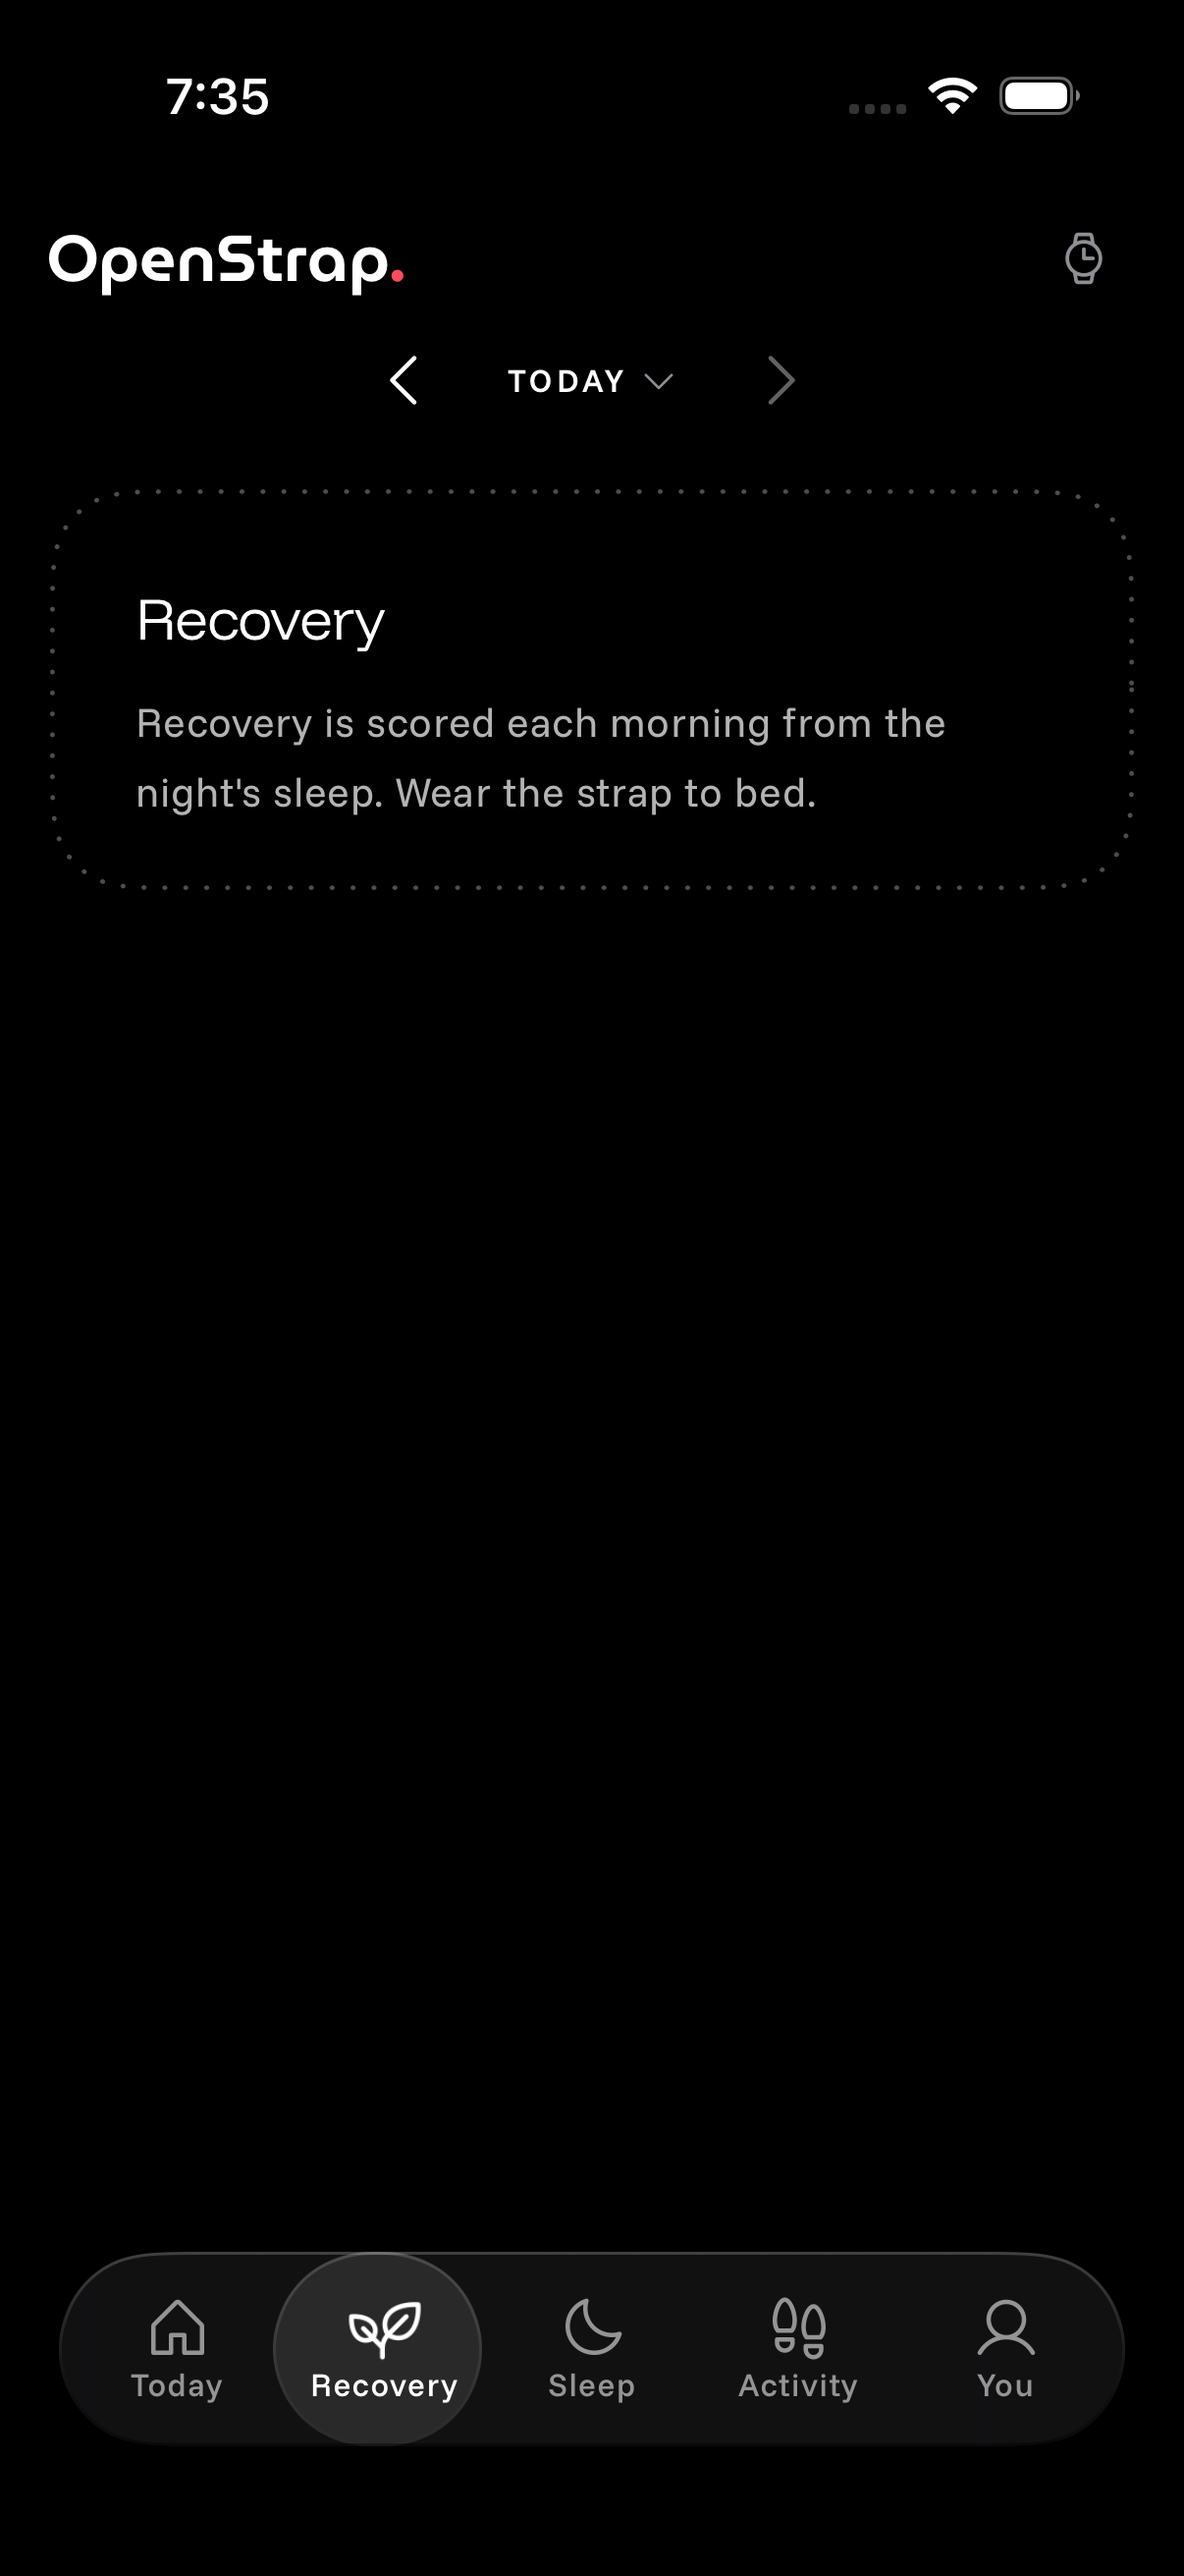
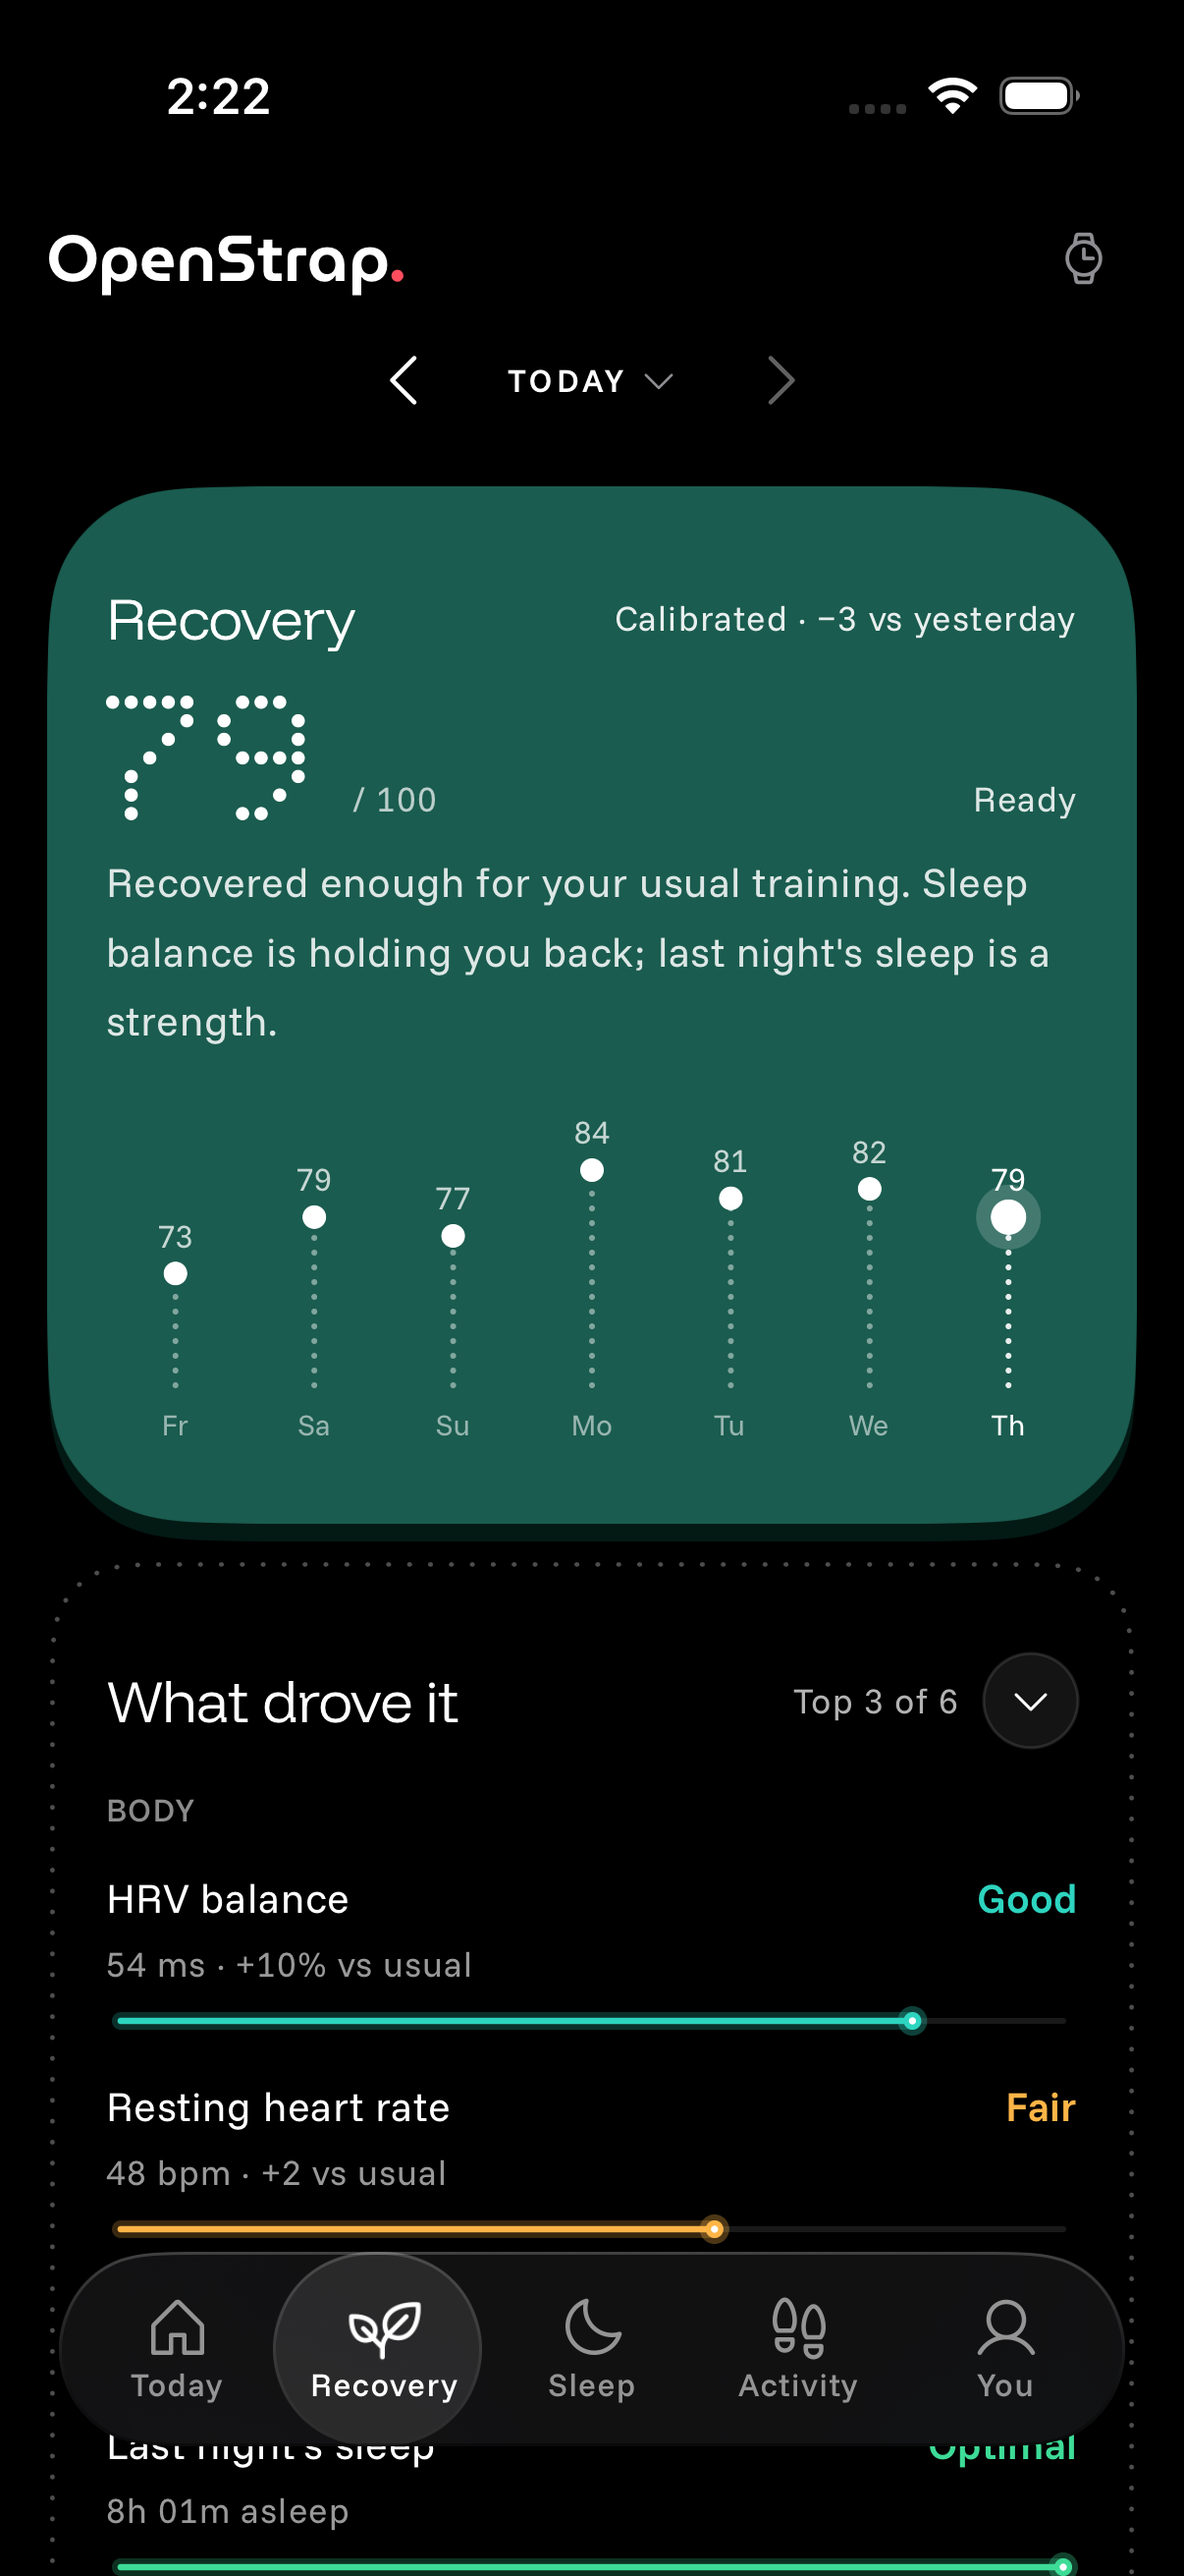
iOS U6: Recovery's screenshots, and what the six CI runs cost
Ten U6 screenshots from run 39709841241 (e63ee39, ALL GREEN): the tab top to bottom,
How it works opened, the contributors unfolded, and the learning state 26 days back.
U4-recovery-1.png comes with them because card U4's walk now photographs this screen.

UPSTREAM's U6 entry records the six iOS runs in order, the three ways polling XCUITest for
a state that may not be there failed, card F1's GattException flake in the Kotlin step, the
cancellations from three cards rerunning on one branch, and the two local measurements
(the sample seed's time-of-day dependence, and TZ=Asia/Calcutta not being the zone the JVM
reads).

diff --git a/docs/ios/UPSTREAM.md b/docs/ios/UPSTREAM.md
@@ -914,19 +914,22 @@ What changed in the move, and why:
   over the contributors themselves, then re-filters in the original order, so the rows keep
   Compose's order inside each group rather than the weight order it selected them by.
 
-Tests: `shared/src/jvmTest/kotlin/org/openstrap/shared/screens/RecoveryGlowTest.kt`, 40 tests (the
-header note's five forms, the three no-score sentences, the sleep contributor's note, the strap's
-estimate and its parts, the strap's fallbacks, the hero's headline and body, the trend's two-letter
-weekdays and its empty case, Charge's at-waking note and its four hint/fact forms, `signed`'s zero,
-the 96 quarter-hour buckets and their clock readout, the four flow rows' signs and fractions, the
-highest/lowest note, the contributors' fold and unfold, Compose's group order with its rules, the
-five caveat notes, the six tiles' order/units/accents, faster/slower vs higher/lower, the skin
-temperature deviation, a missing reading, the seven-day week with gaps, the normal note, the alert's
-and the watch's wording, How it works' comparison and its two paragraphs, `forDay`, the empty
-histories and the 30-day window), and `TodayQueriesTest.kt` gained one (a real database: the six
-signals' month, the four the seed writes every day and the two it never writes, the window's last
-day, and a malformed date answering six empty lists). `:shared:jvmTest` 314 -> 356 tests, 0 failures,
-1 opt-in skip.
+Tests: `shared/src/jvmTest/kotlin/org/openstrap/shared/screens/RecoveryGlowTest.kt`, 41 tests (the
+header note's five forms, the three no-score sentences and which of them is the learning state, the
+sleep contributor's note, the strap's estimate and its parts, the strap's fallbacks, the hero's
+headline and body, the trend's two-letter weekdays and its empty case, Charge's at-waking note and
+its four hint/fact forms, `signed`'s zero, the 96 quarter-hour buckets and their clock readout, the
+four flow rows' signs and fractions, the highest/lowest note, the contributors' fold and unfold,
+Compose's group order with its rules, the five caveat notes, the six tiles' order/units/accents,
+faster/slower vs higher/lower, the skin temperature deviation, a missing reading, the seven-day week
+with gaps, the normal note, the alert's and the watch's wording, How it works' comparison and its two
+paragraphs, `forDay`, the empty histories and the 30-day window), `TodayQueriesTest.kt` gained one (a
+real database: the six signals' month, the four the seed writes every day and the two it never
+writes, the window's last day, and a malformed date answering six empty lists) and
+`RecoveryQueriesTest.kt` is new, one test over the demo month: the learning state is days 23 to 29
+back, 26 previous-day taps land inside it, and yesterday is a scored day. `:shared:jvmTest`
+314 -> 358 tests, 0 failures, 1 opt-in skip (measured with the machine's zone in daylight: see the
+last section).
 
 ### Not copied
 
@@ -949,4 +952,50 @@ day, and a malformed date answering six empty lists). `:shared:jvmTest` 314 -> 3
 
 ### What the CI runs found
 
-(see the summary of card t_3a1afc6f for the run ids and what each cost)
+Six iOS runs, in order. The Kotlin was green locally throughout; every failure below was Swift, the
+UI test's own queries, or another card's recorded flake.
+
+- 39695085373: `RecoveryScreen.swift:228: cannot find type 'RecoveryReadiness' in scope`. The Swift
+  name of `Recovery.Readiness`, nested in a Kotlin `object`, is not what the nested-class rule
+  suggests, and no iOS file had needed to spell it before (Today passes it straight into `TodayGlow`).
+  The contributors panel now takes a `(Bool) -> ContributorsModel` builder, so the type is only ever
+  passed through, as on Today.
+- 39696188876: `testRecovery` drew the whole tab — the walk, How it works opened, the contributors
+  unfolded — then failed at `recovery.body`.firstMatch.exists` with "Failed to get matching snapshot:
+  No matches found". XCTest *raises* on a query that matches nothing in this Xcode; it does not answer
+  false, and the scored first day has no such text.
+- 39699291782: the same step again, with the matches read as a list
+  (`matching(identifier:).allElementsBoundByIndex`). Same raise, from the query itself rather than
+  from `firstMatch`.
+- 39702319788: the same step, enumerating `app.staticTexts` while a day's card re-rendered: the list
+  went stale mid-read ("No matches found for Element at index 64"). Three different ways of polling
+  the tree, three ways to lose; the state is now named where it is decided instead
+  (`RecoveryGlow.card`'s `learning`, the identifier `recovery.learning`), the test steps back a fixed
+  26 days and waits once, and `RecoveryQueriesTest` pins the window that depends on.
+- 39705831612: red in the Kotlin step, before Swift: `StrapEngineTest.linkDownReportsDisconnected`
+  threw a `GattException`. Card F1's recorded leak between the shared device tests (`t_f71167f6`), in
+  `shared/.../device/` which this card does not touch. Rerun as fa6b839.
+- 39706501713 / 39706497906 and 39708990618 / 39708996602: cancelled, not failed. The iOS workflow has
+  `concurrency: cancel-in-progress`, and three cards were pushing reruns to `ios` within minutes of
+  each other, so each new push cancelled the run before it.
+- 39706541852: `testRecovery` **passed**, with `testEveryTabAndYouScreen`, `testToday` and
+  `testPairScreenAppears`. The one red was `testDesignLab`'s recorded "Timed out while evaluating UI
+  query" (card F5's flake; the operator's note says rerun once and do not fix).
+- 39709841241 (commit e63ee39, which contains every U6 commit): **ALL GREEN**, Android run
+  39709845294 green too. The ten U6 screenshots committed here come from that run's artifact.
+
+Two local measurements worth recording, because they cost time to find:
+
+- `:shared:jvmTest` on this machine was red for six *pre-existing* tests at 00:50 local time
+  (`HealthQueriesTest.todayCarriesWhatTheScoreFunctionsCompute`, `recoveryIsTheAndroidRecoveryScreen`,
+  `DayStateLoaderTest.loadFillsTheDayFromTheSampleMonth`, `recoveryIsScoredAfterTheLearningPeriod`,
+  `ScreenQueriesTest.dayIsTheAndroidTodayState`, `recoveryIsScoredAfterTheLearningPeriod`) and green
+  at 13:50 with the same tree, 358 tests either way. The sample seed writes only the minutes up to
+  "now", so at 01:00 the day it calls today has had an hour, all of it asleep: no steps, no awake
+  stress, no evening. The suite is 314 -> 358 tests, 0 failures when `TZ` puts the machine's clock in
+  daylight. None of the six is this card's.
+- `TZ=Asia/Calcutta` on this machine is not the zone the JVM reads: `/usr/share/zoneinfo/Asia/Calcutta`
+  does not exist, so libc falls back to UTC while the JDK's own tzdb resolves +05:30. SQLite's
+  `date(…, 'localtime')` and `Clock.System.todayIn` then disagree by a day after 18:30 UTC. The same
+  six tests fail. `Asia/Kolkata` or `UTC` keeps them in step.
+
